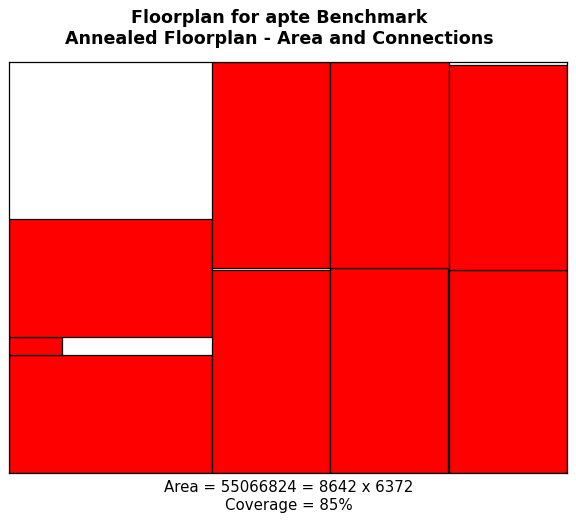
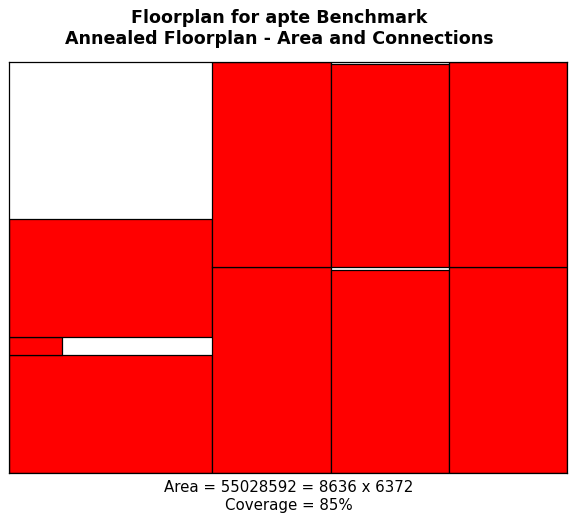
Add new method randomly flip right or left node

Changed region(s): [[0.375, 0.1228, 1.0, 0.952], [0.4375, 0.9213, 0.5312, 0.952]]

diff --git a/annealer.py b/annealer.py
@@ -14,11 +14,14 @@ import printFloorplan as pfp
 
 annealingParameters = classes.AnnealingParameters(100,.85,5,.05,1,1)
 
+(countChain,countFit,countFlip) = (0,0,0)
 
 
 #####################################################################################################################
 # METHOD 1: Flip a random chain (random length) of operators
 def updateSolutionRandomChain(root,rectangles,dictionary):
+	flagChain = 1
+
 	polishArray = utils.getPolishArray(root)
 
 	# Choose random number from 0 to n-2 (for n modules, there are n-1 operators and indices thus range over [0,n-1-1])
@@ -48,6 +51,8 @@ def updateSolutionRandomChain(root,rectangles,dictionary):
 #####################################################################################################################
 # METHOD 2: Find a node where the right node can fit within the white space of the left and collapse that subtree 1 node
 def updateSolutionFitNode(root,rectangles,dictionary):
+	flagFit = 1
+
 	newRoot = deepcopy(root)
 
 
@@ -108,6 +113,8 @@ def fitRightInLeft(node):
 #####################################################################################################################
 # METHOD 3: Swap 2 random operands
 def updateSwapOperands(root,rectangles,dictionary):
+	flagSwap = 1
+
 	polishArray = utils.getPolishArray(root)
 
 	# Choose random number from 0 to n-1.  
@@ -146,8 +153,21 @@ def updateSwapOperands(root,rectangles,dictionary):
 	# Construct new tree of nodes from the new polish expression
 	newRoot = utils.getTreeFromPolishArray(polishArray,rectangles,dictionary)
 
-	return newRoot;
+	return newRoot
 
+#####################################################################################################################
+# METHOD 4: Randomly rotate left or right child
+def updateFlipNode(root,rectangles,dictionary):
+	newRoot = deepcopy(root)
+
+	r = random.randint(0,1)
+
+	if r==0 and newRoot.left is not None:
+		utils.flipNode(newRoot.left)
+	elif newRoot.right is not None:
+		utils.flipNode(newRoot.right)
+
+	return newRoot
 
 
 #####################################################################################################################
@@ -158,7 +178,8 @@ def anneal(dataset, annealingParameters, cost, outputPrefix,scenario):
 	# Solutions will be represented by roots to a slicing tree
 
 	# Setup
-	updateMethods = [updateSolutionRandomChain,updateSolutionFitNode,updateSwapOperands]
+
+	updateMethods = [updateSolutionRandomChain,updateSolutionFitNode,updateSwapOperands,updateFlipNode]
 	#updateMethods = [updateSolutionRandomChain]
 	start = time.time()
 	(initialSolution, rectangles, dictionary, matrix) = initializeMatchPairs(dataset)
@@ -177,7 +198,7 @@ def anneal(dataset, annealingParameters, cost, outputPrefix,scenario):
 
 	#Iterations
 	while (reject/MT <= 1-annealingParameters.thresholdAccepted) and T>=annealingParameters.thresholdTemp and timeDiff<=annealingParameters.thresholdTime:
-
+		(flagChain,flagFit,flagFlip) = (0,0,0)
 		MT = 1 # start at 1 to avoid divide by 0
 		uphill = 0
 		reject = 0
@@ -186,8 +207,6 @@ def anneal(dataset, annealingParameters, cost, outputPrefix,scenario):
 
 		
 		while uphill<=N and MT<=2*N:
-			#newSolution = updateSolutionRandomChain(currentSolution,rectangles,dictionary)
-			#newSolution = updateSolutionFitNode(currentSolution,rectangles,dictionary)
 
 			# randomly choose which method to use for updating
 			randomIndex = random.randint(0,len(updateMethods)-1)
@@ -201,6 +220,7 @@ def anneal(dataset, annealingParameters, cost, outputPrefix,scenario):
 
 			# Updates
 			if deltaCost <= 0 or random.uniform(0,1) < math.exp(-deltaCost/T):
+
 				if deltaCost>0:
 					uphill += 1
 
@@ -234,6 +254,7 @@ def anneal(dataset, annealingParameters, cost, outputPrefix,scenario):
 	constructNewRectangleMatrix(bestSolution)
 
 	print("Total area for " + dataset + " = " + str(bestSolution.w*bestSolution.h))
+	print("(countChain,countFit,countFlip)="+str((countChain,countFit,countFlip)))
 	pfp.printFloorplan(newRectangles,dataset,outputPrefix + dataset + '.png',scenario)
 
 	return (bestSolution, rectangles, dictionary, matrix)

diff --git a/finalReport.py b/finalReport.py
@@ -6,9 +6,12 @@ import classes
 import utils
 import numpy as np
 from copy import copy, deepcopy
+import random
 
-#annealingParameters = classes.AnnealingParameters(100,.85,5,.05,1,1)
-annealingParameters = classes.AnnealingParameters(100,.9,5,.05,100,1)
+annealingParameters = classes.AnnealingParameters(100,.85,5,.05,1,1)
+#annealingParameters = classes.AnnealingParameters(1000,.8,10,.01,1000,1)
+
+random.seed(1000) # Set seed so we can reproduce results
 
 def analyzeAllBenchmarks():
 	for dataset in utils.benchmarks:
